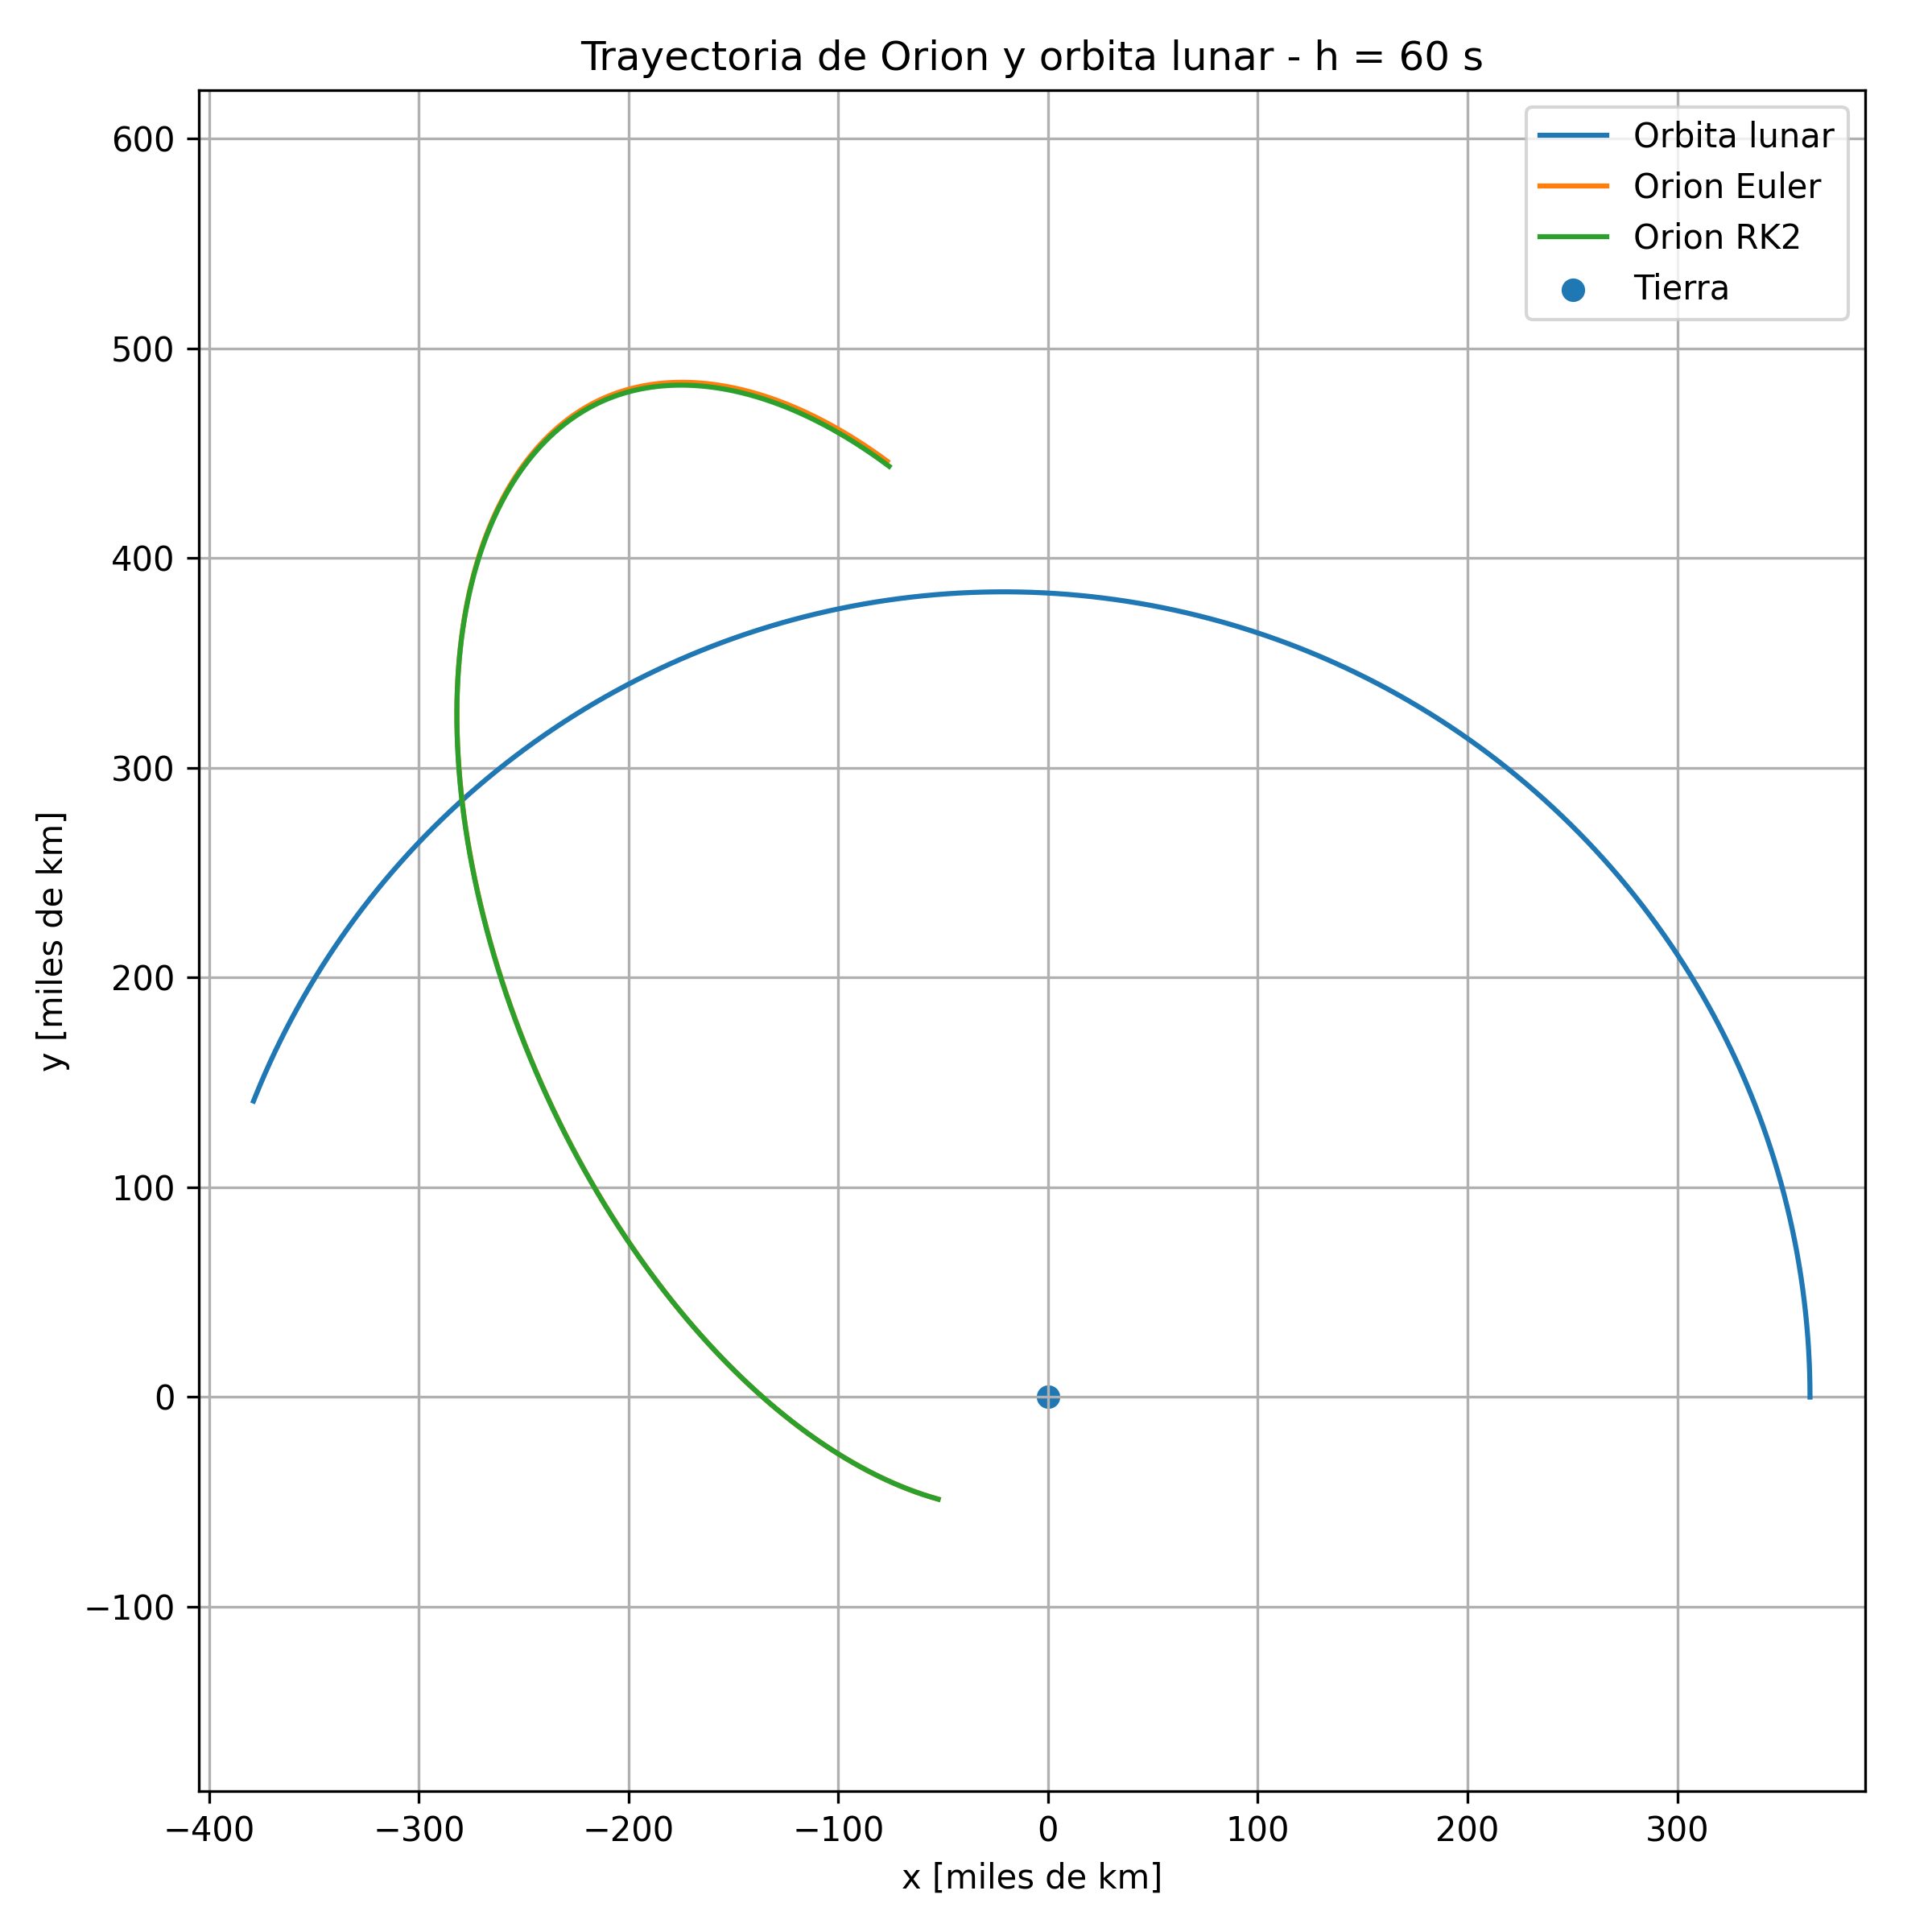
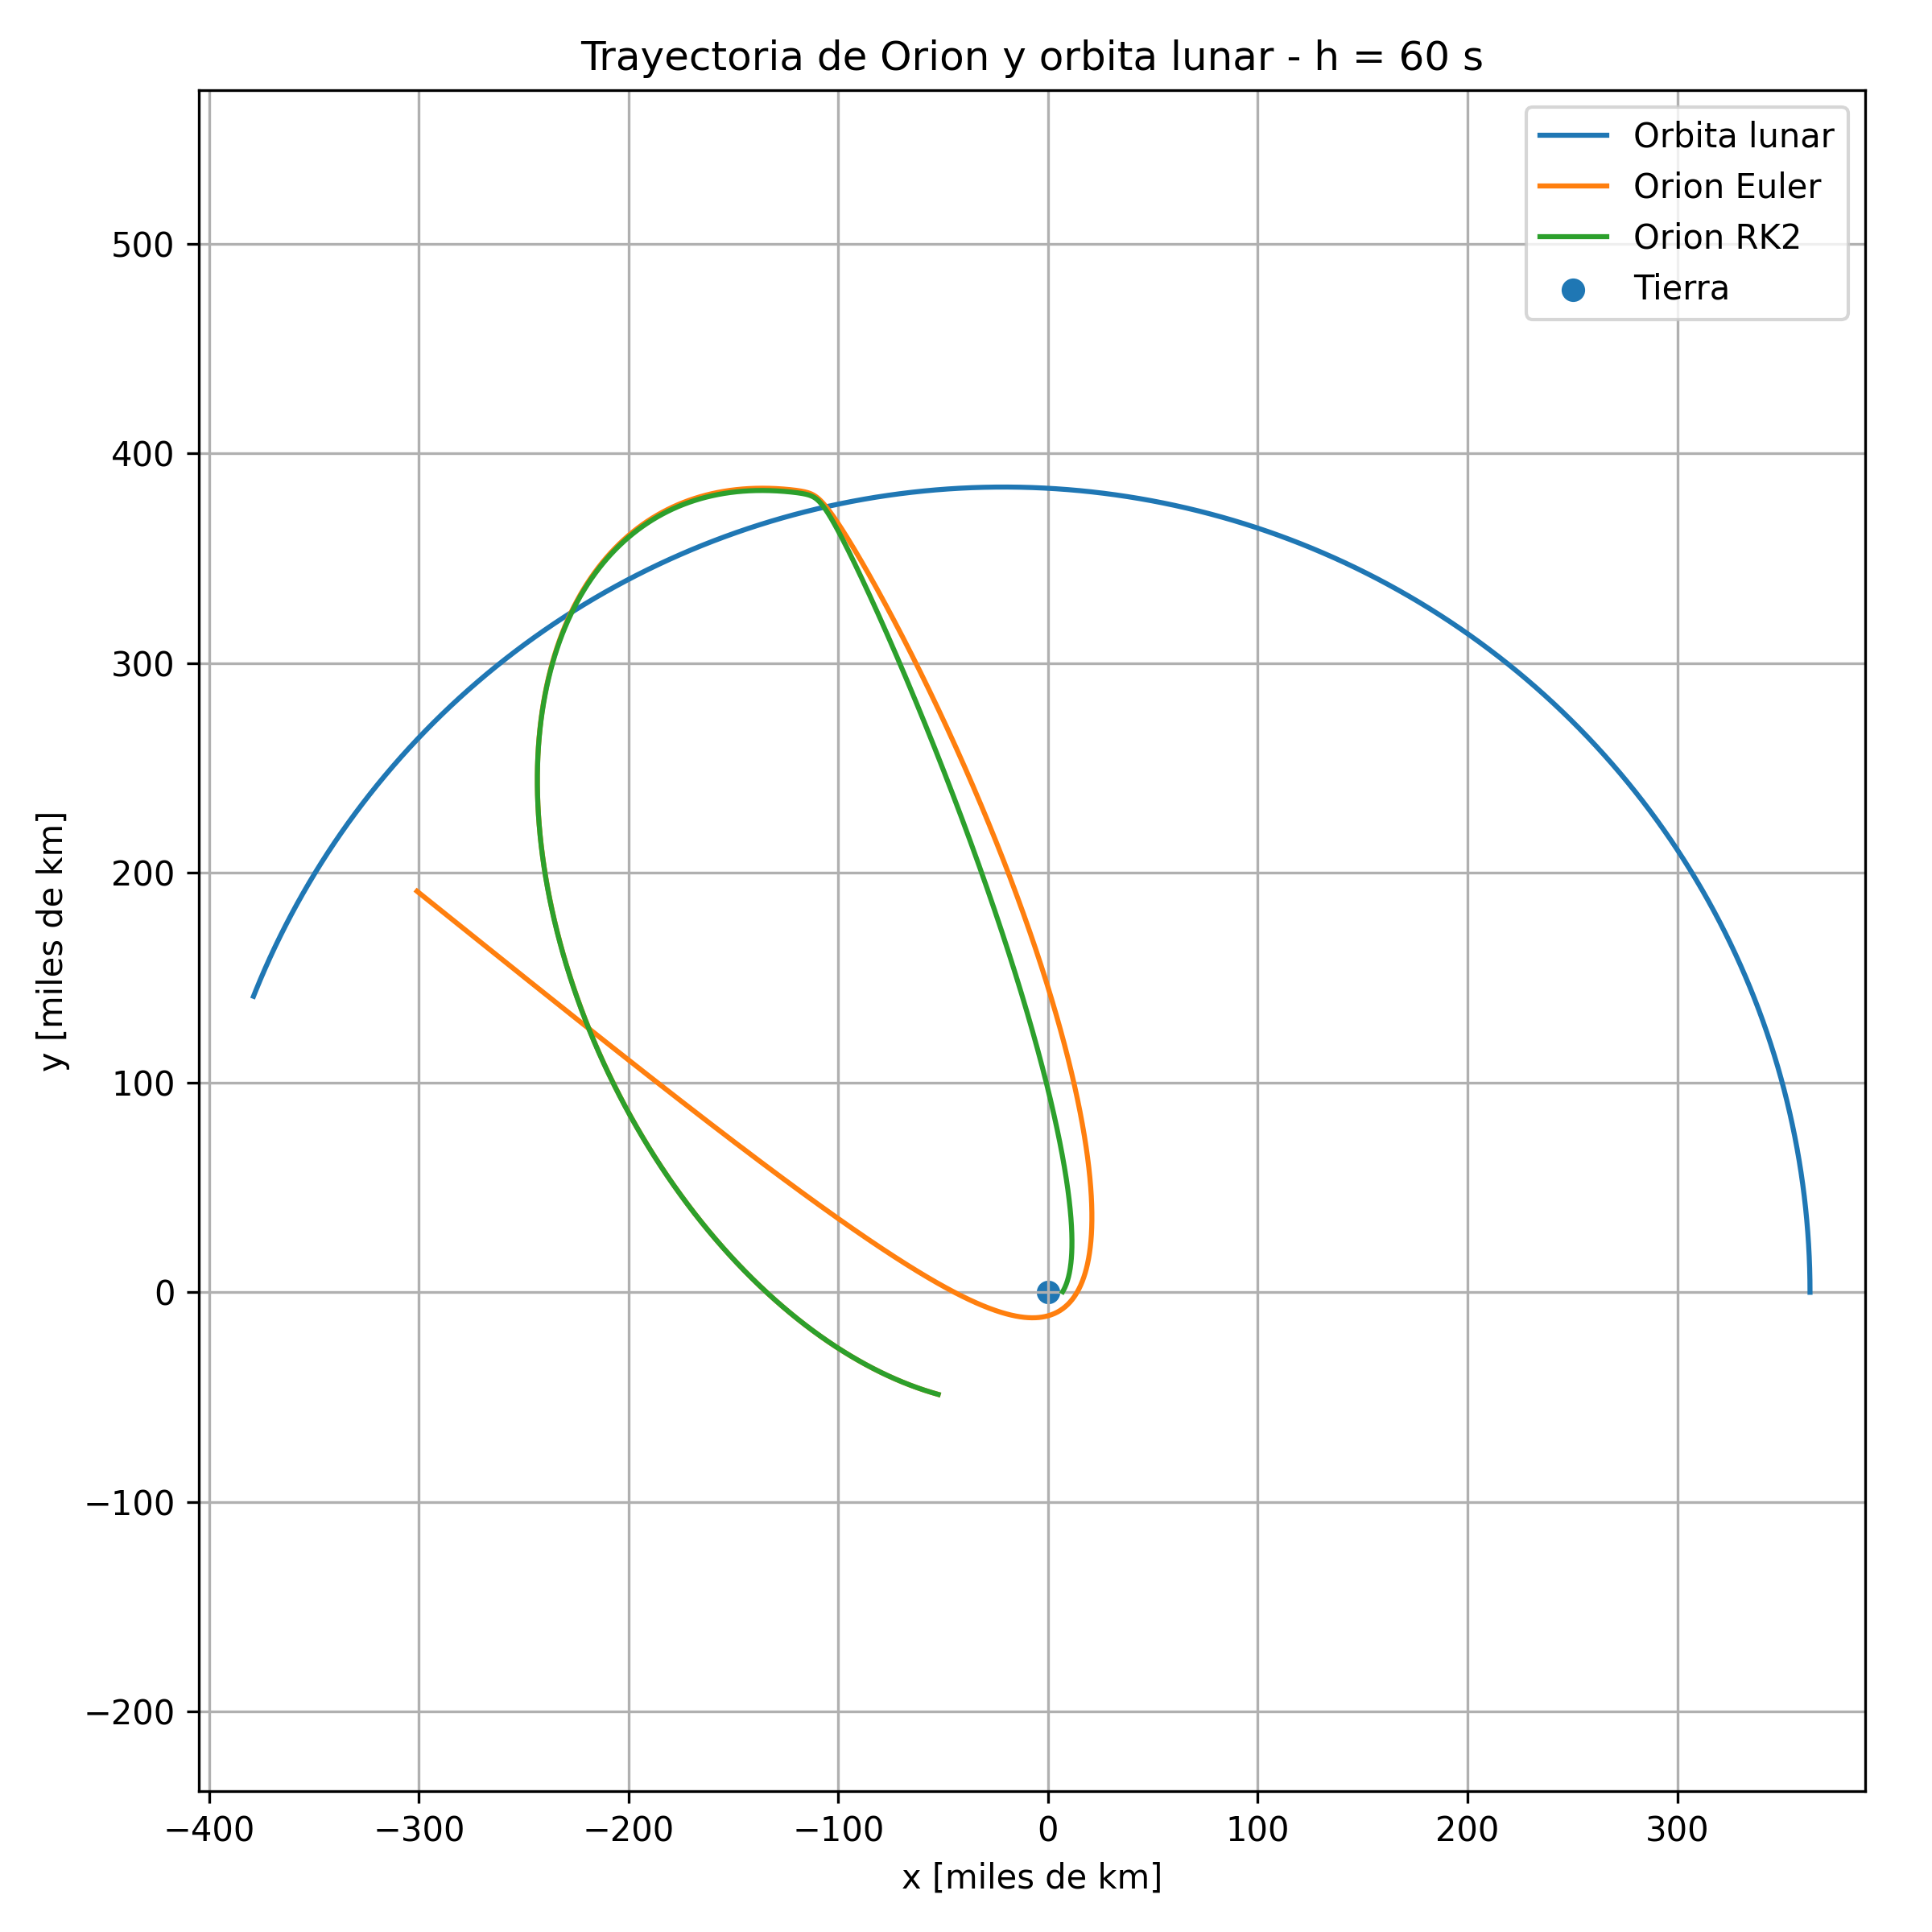
Establezco nuevo valor de factor de velocidad. Agrego otro grafico.

diff --git a/orion.py b/orion.py
@@ -348,6 +348,67 @@ def graficar_distancia_luna_orion(
     plt.savefig(f"orion_distancia_luna_h_{h}.png", dpi=300)
     plt.close()
 
+def graficar_trayectoria_orion_sistema_rotante(
+    t_orion_rk2,
+    estados_orion_rk2,
+    posicion_luna,
+    h
+):
+    xO = estados_orion_rk2[:, 0]
+    yO = estados_orion_rk2[:, 1]
+
+    x_rot = []
+    y_rot = []
+    dL = []
+
+    for t, x, y in zip(t_orion_rk2, xO, yO):
+        xL, yL = posicion_luna(t)
+
+        theta = np.arctan2(yL, xL)
+
+        x_orion_rot = x * np.cos(-theta) - y * np.sin(-theta)
+        y_orion_rot = x * np.sin(-theta) + y * np.cos(-theta)
+
+        x_rot.append(x_orion_rot / 1000)
+        y_rot.append(y_orion_rot / 1000)
+
+        distancia_luna = np.sqrt((xL - x)**2 + (yL - y)**2)
+        dL.append(distancia_luna)
+
+    x_rot = np.array(x_rot)
+    y_rot = np.array(y_rot)
+    dL = np.array(dL)
+
+    indice_min_luna = np.argmin(dL)
+
+    plt.figure(figsize=(8, 8))
+
+    plt.plot(x_rot, y_rot, label="Orion RK2")
+
+    plt.scatter(0, 0, label="Tierra")
+    plt.scatter(RADIO_APOGEO / 1000, 0, label="Luna aprox.")
+
+    plt.scatter(x_rot[0], y_rot[0], marker="o", label="Inicio Orion")
+    plt.scatter(x_rot[-1], y_rot[-1], marker="x", label="Fin Orion")
+    plt.scatter(
+        x_rot[indice_min_luna],
+        y_rot[indice_min_luna],
+        marker="*",
+        s=120,
+        label="Máx. acercamiento lunar"
+    )
+
+    plt.xlabel("x [miles de km]")
+    plt.ylabel("y [miles de km]")
+    plt.title(f"Trayectoria de Orion en sistema Tierra-Luna rotante - h = {h} s")
+    plt.axis("equal")
+    plt.grid(True)
+    plt.legend()
+    plt.tight_layout()
+    plt.savefig(f"orion_trayectoria_rotante_h_{h}.png", dpi=300)
+    plt.close()
+     
+
 # ============================================================
 # EJECUCION DE ORION
 # ============================================================
@@ -363,7 +424,6 @@ def simular_orion():
     t_minimo = 3 * SEGUNDOS_POR_DIA
 
     delta_theta_deg = -78
-    factor_velocidad = 1.16
 
     t_luna, estados_luna = integrar_luna(
         Y0_LUNA,
@@ -380,7 +440,7 @@ def simular_orion():
     Y0_orion_ajustado = ajustar_angulo_velocidad(
         Y0_orion,
         delta_theta_deg,
-        factor_velocidad=1.18
+        factor_velocidad=1.16
     )
 
     t_orion_euler, estados_orion_euler = integrar_orion(
@@ -446,6 +506,13 @@ def simular_orion():
         h
     )
 
+    graficar_trayectoria_orion_sistema_rotante(
+        t_orion_rk2,
+        estados_orion_rk2,
+        posicion_luna,
+        h
+    )
+
 def probar_deltas_y_velocidades_orion():
     ruta_csv = "Artemis-II-Data.csv"
 
@@ -456,8 +523,9 @@ def probar_deltas_y_velocidades_orion():
     r_corte = 7000.0
     t_minimo = 3 * SEGUNDOS_POR_DIA
 
-    deltas = [-85, -82, -80, -78, -76, -75, -74, -72, -70, -68, -65]
-    factores = [1.06, 1.08, 1.10, 1.12, 1.1, 1.16]
+    # deltas = [-85, -82, -80, -78, -76, -75, -74, -72, -70, -68, -65]
+    deltas = [-78]
+    factores = [1.16, 1.161, 1.162, 1.163, 1.164, 1.165, 1.166, 1.167, 1.168, 1.169]
 
     t_luna, estados_luna = integrar_luna(
         Y0_LUNA,
@@ -508,7 +576,7 @@ def probar_deltas_y_velocidades_orion():
             velocidad_max = metricas_rk2["velocidad_max"]
 
             print(
-                f"{delta:5} | {factor_velocidad:6.2f} | "
+                f"{delta:5} | {factor_velocidad:6.3f} | "
                 f"{distancia_max_tierra:12.1f} | {distancia_min_tierra:12.1f} | {distancia_min_luna:10.1f} | "
                 f"{velocidad_max:14.3f}"
             )